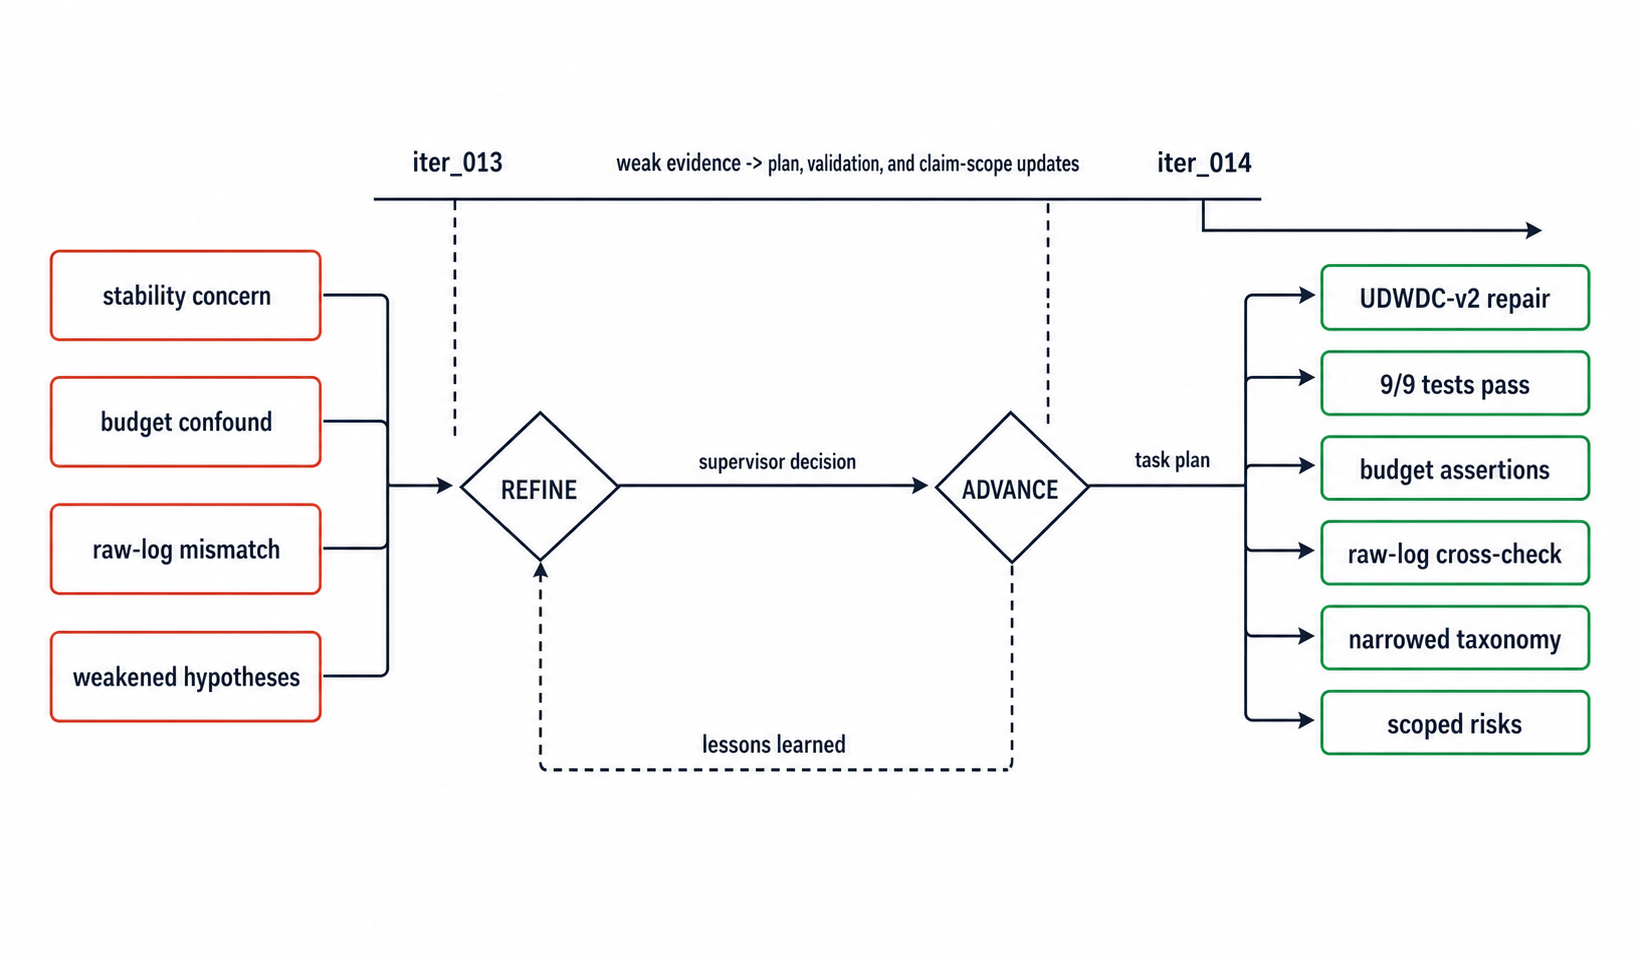
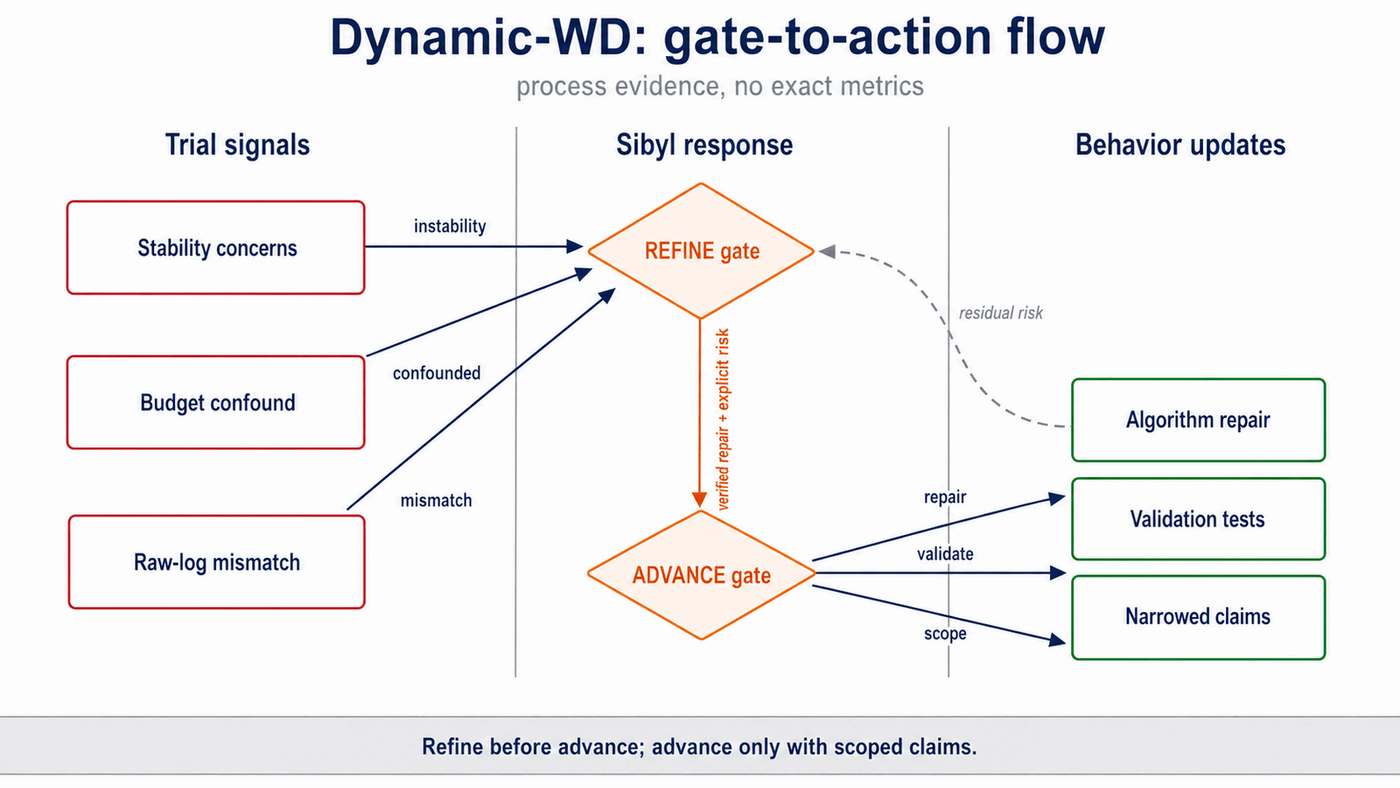
更新论文内容与案例流程图

diff --git a/sibyl_harness_position.tex b/sibyl_harness_position.tex
@@ -35,23 +35,24 @@
 \maketitle
 
 \begin{abstract}
- This position paper argues that autonomous research needs self-evolving Scientific Trial-and-Error Harnesses, not systems optimized primarily to generate papers. Existing systems give agents tools, roles, scaffolds, and research pipelines. These components help agents complete research tasks, but they do not by themselves create research judgment: the experience-backed ability to distrust weak signals, choose better controls, narrow claims, and stop unproductive lines of work. We propose Scientific Trial-and-Error Harnesses as the missing design target. A harness lets agents run bounded trials in real research environments, preserves positive and negative outcomes, routes lessons to the roles that must act on them, and changes both future research behavior and the harness itself. We make this target auditable through two conversion units. \emph{Trial-to-behavior conversion} links a trial signal to a later change in planning, validation, claim scope, scheduling, critique, or writing. \emph{Trial-to-harness-behavior conversion} links recurring process failures to new gates, prompt overlays, telemetry checks, scheduler policies, repair tasks, or protected constraints. The framework and \sibyl{}, a file-backed experimental autonomous research harness, co-developed: recurring failures in \sibyl{} workspaces sharpened the framework, and the framework in turn guided what the harness had to preserve and route. We use \sibyl{} not as a benchmarked system, but as an instrumented case study for making conversion paths observable. A retrospective audit of its workspaces identifies 8 high-confidence conversion events with a median latency of 1 iteration and a maximum visible latency of 3 iterations. A recovered-failure registry further shows how five naturally occurring failure classes, including duplicate results, confidence-interval inversion, stale numbers, feature-count mismatch, and unsupported statistics, were blocked, downgraded, or routed into later repair. These traces do not establish a comparative performance claim; they show that the proposed conversion units can be recovered from realistic autonomous-research workspaces.
+Autonomous research systems are often evaluated by their ability to produce papers, but paper generation alone does not imply research judgment. Real research requires learning from failed trials, distrusting weak signals, choosing better controls, narrowing claims, and abandoning unproductive directions. \textbf{This position paper argues that autonomous research should therefore be built around self-evolving \emph{Scientific Trial-and-Error Harnesses}: systems that let agents run bounded trials in realistic research environments, preserve both positive and negative outcomes, and route lessons back into future research behavior.}
+We formalize this goal through two auditable conversion units. \emph{Trial-to-behavior conversion} captures how evidence from a trial changes later planning, validation, claim scope, scheduling, critique, or writing. \emph{Trial-to-harness-behavior conversion} captures how recurring process failures lead to changes in the harness itself, such as new gates, prompt overlays, telemetry checks, scheduler policies, repair tasks, or protected constraints. Together, these units shift the design target from producing isolated research artifacts to accumulating reusable research judgment.
+We develop this framework alongside \sibyl{}, a file-backed autonomous research harness. Rather than presenting \sibyl{} as a benchmarked system, we use it as an instrumented case study for making conversion paths observable. Recurring failures in \sibyl{} workspaces sharpened the framework, while the framework guided what the harness needed to preserve, expose, and route. A retrospective audit identifies eight high-confidence conversion events, with a median latency of one iteration and a maximum latency of three iterations. A recovered-failure registry further shows how five naturally occurring failure classes, including duplicate results, confidence-interval inversion, stale numbers, feature-count mismatch, and unsupported statistics, were blocked, downgraded, or routed into later repair. These traces don't establish a comparative performance claim; they show the proposed conversion units are recoverable from realistic autonomous-research workspaces.
+ 
 \end{abstract}
 
 
 \section{Introduction}
 
-Autonomous research is becoming a concrete systems problem. LLM-driven agents can already read papers, write code, call tools, run experiments, revise drafts, and keep long contexts. The harder question is no longer only whether these agents can assist a human researcher. It is whether an agent can improve as a researcher across attempts: form better priors, notice fragile evidence earlier, stop bad stories before they become claims, and carry hard lessons into the next project.
+Autonomous research is becoming a concrete systems problem. LLM-driven agents~\citep{wu2023autogen,lu2024aiscientistfullyautomated,boiko2023autonomouschemicalresearch} can already read papers, write code, call tools, run experiments, revise drafts, and keep long contexts. The harder question is no longer only whether these agents can assist a human researcher. It is whether an agent can improve as a researcher across attempts: form better priors, notice fragile evidence earlier, stop bad stories before they become claims, and carry hard lessons into the next project.
 
-Human researchers improve this way. A researcher who has spent months with a benchmark often knows which metric is brittle, which baseline result is suspicious, which negative result is useful, and which pilot result is not ready for a paper. This ability is often called intuition or taste. We call it \emph{research judgment}: experience-backed behavior that changes what the researcher does next. The important point is not that judgment is mysterious. The important point is that judgment is produced by many concrete trials, mistakes, repairs, and reviews.
+This is also how human research practice develops. A researcher who has spent months with a benchmark often knows which metric is brittle, which baseline result is suspicious, which negative result is useful, and which pilot result is not ready for a paper. This ability is often called intuition or taste. We call it \emph{research judgment}: experience-backed behavior that changes what the researcher does next. The point is not that judgment is mysterious, but that it is produced by many concrete trials, mistakes, repairs, and reviews.
 
-Recent autonomous research systems automate many parts of the research loop. End-to-end AI scientist systems move from idea generation to draft papers \citep{lu2024aiscientistfullyautomated,yamada2025aiscientistv2workshoplevelautomated}. Research assistant and co-scientist systems help form hypotheses, synthesize literature, and rank candidates \citep{schmidgall2025agentlaboratoryusingllm,gottweis2025aicoscientist,ghareeb2025robinmultiagentautomatingscientific}. Metric-driven loops can search over code or methods when the score is visible \citep{karpathy2026autoresearch}. These systems show that agents can participate in scientific work. They also make a deeper design gap visible: completing research stages is not the same as accumulating research judgment.
+Recent autonomous research systems automate many parts of the research loop. For example, end-to-end AI scientist frameworks proceed from idea generation to draft papers~\citep{lu2024aiscientistfullyautomated,yamada2025aiscientistv2workshoplevelautomated}, while research assistant and co-scientist systems support hypothesis formation, literature synthesis, and candidate ranking~\citep{schmidgall2025agentlaboratoryusingllm,gottweis2025aicoscientist,ghareeb2025robinmultiagentautomatingscientific}. Metric-driven loops can further search over code or methods when an explicit score is available~\citep{karpathy2026autoresearch}. Together, these systems show that agents can participate in scientific work, but they also expose a deeper design gap: \textbf{completing research stages is not the same as accumulating research judgment.} The gap becomes visible in the failures that occur after useful signals have already been observed. A pilot may expose a broken metric, but the next plan still relies on it. A reviewer objection may identify an unsupported claim, but the writer only polishes the claim. A failed GPU run may reveal a wasteful experiment order, but the scheduler repeats it. A reflection file may record the right lesson, but the planner, critic, or supervisor never receives it. \textbf{These are not just bugs; they are missing update paths from trial history to later action.}
 
-The gap appears when a system observes a useful signal but fails to change future behavior. A pilot exposes a broken metric, yet the next plan keeps the metric. A reviewer objection identifies an unsupported claim, yet the writer keeps the claim polished. A failed GPU run reveals a wasteful experiment order, yet the scheduler repeats the order. A reflection file states the right lesson, yet the planner, critic, or supervisor never sees it. These are not just bugs. They are missing update paths from trial history to later action.
-
-This position emerged from building and auditing autonomous research workspaces, not from a finished benchmark. Early \sibyl{} runs repeatedly produced the same uncomfortable pattern: the system could preserve logs, reflections, and drafts while still failing to route lessons into the next plan, claim boundary, validation gate, or scheduling policy. Those failures shaped the framework below. We present the framework before \sibyl{} because the transferable contribution is not a particular implementation, but the update paths an autonomous research harness should expose.
-
-\textbf{Autonomous research needs self-evolving Scientific Trial-and-Error Harnesses, not systems optimized primarily to generate papers.} A harness is not a paper generator. It is the research environment around the agent: the state, tools, roles, memory, gates, artifact contracts, compute policy, and repair mechanisms that let agents try ideas under bounded controls and then use what happened. In a strong harness, past trials change future research behavior. Recurring process failures also change the harness itself. These two loops form agent-harness co-evolution. In our own system-building process, this co-evolution was also methodological: traces from early harness failures forced the conversion units to become smaller, more auditable, and more role-specific.
+This position grew out of building and auditing \sibyl{}, a file-backed experimental harness for autonomous research workspaces, rather than from optimizing a finished benchmark. Early \sibyl{} runs revealed a recurring pattern: the system could preserve logs, reflections, and drafts, yet still fail to route lessons into the next plan, claim boundary, validation gate, or scheduling policy. These failures shaped the framework below. We present the framework before the \sibyl{} case study because the transferable contribution is not the specific implementation, but the update paths an autonomous research harness should expose.
+This position paper argues that \textbf{autonomous research needs self-evolving Scientific Trial-and-Error Harnesses, not systems optimized primarily to generate papers.} 
+By harness, we mean the research environment around the agent: its state, tools, roles, memory, gates, artifact contracts, compute policies, and repair mechanisms. It lets agents try ideas under bounded controls, preserve outcomes, and convert trial history into later action. In a strong harness, past trials change future research behavior, while recurring process failures change the harness itself. These two feedback loops form agent-harness co-evolution. In our own system-building process, this co-evolution was also methodological: early harness failures forced the conversion units to become smaller, more auditable, and more role-specific.
 
 We operationalize this position with two auditable conversion units. \emph{Trial-to-behavior conversion} asks whether a trial signal at iteration $t$ changes an action at iteration $t+k$, such as a plan, validation, claim boundary, schedule, critique, or writing scope. \emph{Trial-to-harness-behavior conversion} asks whether repeated process failures change gates, prompt overlays, telemetry requirements, scheduler policies, repair tasks, or protected constraints. The unit is small on purpose: a signal, a trace path, and a later behavior change. Figure~\ref{fig:hook} shows the audit unit inside the adaptive harness loop.
 
@@ -61,65 +62,64 @@ We operationalize this position with two auditable conversion units. \emph{Trial
   \begin{subfigure}[t]{0.485\textwidth}
     \centering
     \includegraphics[width=0.97\linewidth,height=0.20\textheight,keepaspectratio]{figures/xqh/fig1.pdf}
-    \caption{Trial-to-behavior conversion and the closed adaptive harness loop.}
+    \caption{\small{Trial-to-behavior conversion and the closed adaptive harness loop.}}
     \label{fig:hook}
   \end{subfigure}
   \hfill
   \begin{subfigure}[t]{0.485\textwidth}
     \centering
     \includegraphics[width=0.97\linewidth,height=0.20\textheight,keepaspectratio]{figures/xqh/fig2.pdf}
-    \caption{Auditable conversion events and the evidence maturity boundary.}
+    \caption{\small{Auditable conversion events and the evidence maturity boundary.}}
     \label{fig:conversionevent}
   \end{subfigure}
-  \caption{Two views of Scientific Trial-and-Error Harnesses. (a) An auditable conversion event links a trial signal, a trace path, and a later behavior change inside a closed adaptive harness loop. (b) A conversion is counted only when a signal at iteration $t$, a trace path, and an update at iteration $t+k$ are linked; the maturity ladder separates execution completion, pilot signals, analysis-ready evidence, paper-ready evidence, and audited claims.}
-  \vspace{-2.2em}
+  \caption{\small{Two views of Scientific Trial-and-Error Harnesses. (a) An auditable conversion event links a trial signal, a trace path, and a later behavior change inside a closed adaptive harness loop. (b) A conversion is counted only when a signal at iteration $t$, a trace path, and an update at $t+k$ are linked; the maturity ladder separates execution completion, pilot signals, analysis-ready evidence, paper-ready evidence, and audited claims.}}
 \end{figure*}
 
-We make four contributions:
-\begin{enumerate}
+The contributions of this position paper are summarized as follows:
+\begin{enumerate}[leftmargin=*, itemsep=0pt, topsep=0pt]
   \item \textbf{A position for autonomous research.} We argue that autonomous research systems should be judged by whether trial history changes future research behavior, not only by whether a pipeline produces a complete paper.
-  \item \textbf{Two auditable conversion units.} We define trial-to-behavior conversion and trial-to-harness-behavior conversion as inspectable links from trial signals to later behavior updates and harness updates.
+  \item \textbf{Two auditable conversion units.} We define trial-to-behavior and trial-to-harness-behavior conversion as inspectable links from trial signals to later behavior and harness updates.
   \item \textbf{A harness design framework.} We distill seven harness functions and observable commitments for preserving evidence, routing memory, separating perspectives, managing compute, and repairing recurring failure paths.
   \item \textbf{An instrumented case study.} We describe \sibyl{}, an experimental harness that co-developed with the framework and preserves traces for stress-testing whether the proposed conversion units are observable in realistic autonomous-research workflows.
 \end{enumerate}
 
 \section{Related work}
 
-\paragraph{End-to-end autonomous research systems.}
+\textbf{End-to-end autonomous research systems.}
 AI scientist systems show that LLM agents can generate ideas, run experiments, interpret results, and draft manuscripts \citep{lu2024aiscientistfullyautomated,yamada2025aiscientistv2workshoplevelautomated}. Agent laboratory and co-scientist systems emphasize human collaboration, literature synthesis, hypothesis generation, and candidate ranking \citep{schmidgall2025agentlaboratoryusingllm,gottweis2025aicoscientist,ghareeb2025robinmultiagentautomatingscientific}. Domain-specific scientific agents further show that language-model systems can combine literature search, code execution, tool use, and laboratory or chemistry-specific automation \citep{bran2023chemcrow,boiko2023autonomouschemicalresearch}. More recent systems extend this trajectory toward longer-horizon and more domain-grounded discovery: cmbagent uses a planning-and-control multi-agent architecture for an autonomous cosmology analysis task, Kosmos coordinates data analysis and literature search through a structured world model, SAGA evolves scientific objective functions rather than treating objectives as fixed, and Aster accelerates iterative program-improvement loops across scientific and engineering tasks \citep{xu2025opensourceplanning,mitchener2025kosmos,du2025saga,bicker2026aster}. MLAgentBench makes the experimentation loop itself an evaluation target by asking agents to improve machine-learning systems through file edits, execution, and result inspection \citep{huang2023mlagentbench}. General-purpose multi-agent and software-agent systems also show how roles, messages, tools, human interaction, and agent-computer interfaces shape task execution \citep{wu2023autogen,hong2023metagpt,yang2024sweagent,jimenez2023swebench}. These systems make more of the scientific workflow executable. Recent surveys similarly frame the field as moving from equation discovery and self-driving laboratories toward autonomous discovery systems and agents \citep{kramer2026automatedscientificdiscovery}. Our focus is different. We ask whether trial history changes later research behavior and whether repeated process failures change the harness that hosts later trials.
 
-\paragraph{Metric-driven search and verifier-rich discovery.}
+\textbf{Metric-driven search and verifier-rich discovery.}
 Autoresearch loops, FARS-style systems, AlphaEvolve-style systems, Aster-style program improvement, CORAL-style multi-agent evolution, and PaperBench-like evaluations show the value of repeated trials when feedback is clear \citep{karpathy2026autoresearch,analemma2026fars,novikov2025alphaevolvecodingagentscientific,bicker2026aster,qu2026coral,starace2025paperbenchevaluatingaisability}. This line of work is closest to classical AutoML, neural architecture search, and black-box optimization: the system searches over candidates under an explicit objective \citep{hutter2019automated,zoph2017neuralarchitecturesearchreinforcement}. The difference is that open-ended research often lacks a single trusted objective. A harness must therefore route measurement failures and negative results into revised metrics, controls, and claim boundaries, not only into another search step.
 
-\paragraph{Agent memory and reflection.}
+\textbf{Agent memory and reflection.}
 Tool-using agents establish the basic pattern of interleaving language reasoning with external actions. ReAct combines reasoning traces with environment actions, and Toolformer studies how language models can learn to call external APIs \citep{yao2022react,schick2023toolformer}. Reflection systems show that verbal lessons from failed trials can improve later agent behavior \citep{shinn2023reflexionlanguageagentsverbal}. Memory systems show how agents can store and retrieve information across long interactions \citep{packer2024memgptllmsoperatingsystems}. Self-Refine, Voyager, and Generative Agents also show how critique, skill libraries, and memory can shape future actions \citep{madaan2023selfrefineiterativerefinementselffeedback,wang2023voyageropenendedembodiedagent,park2023generativeagentsinteractivesimulacra}. Trial-to-behavior conversion is more specific than tool use or memory reuse. A lesson counts only when it reaches the role that must act on it and appears in a later plan, validation, claim boundary, schedule, critique, or writing restriction.
 
-\paragraph{Harnesses, tools, provenance, and reproducibility.}
+\textbf{Harnesses, tools, provenance, and reproducibility.}
 Broad agent benchmarks evaluate whether language models can act in interactive environments, and software or research benchmarks expose the importance of execution, long-context state, and artifact inspection \citep{liu2023agentbench,jimenez2023swebench,huang2023mlagentbench,starace2025paperbenchevaluatingaisability}. Long-running agents require harnesses, tools, tracing, and guardrails to make progress inspectable and safe \citep{anthropic2025harnesses,anthropic2025tools,openai2026tracing,openai2026guardrails}. Scientific provenance and reproducibility work gives complementary tools for connecting claims to artifacts \citep{733f89c65e4844f9aabcae1c276a5602,Gundersen_2018}. Work on weak evidence and publication incentives warns that polished claims can outrun the evidence base \citep{Ioannidis_2005}. We connect these threads by treating a harness as a memory-bearing research environment with explicit evidence boundaries and by requiring claim-relevant behavior changes to be visible in traces.
 
-\paragraph{Expertise and research judgment.}
+\textbf{Expertise and research judgment.}
 The idea that expertise grows from repeated, feedback-rich experience is old \citep{Ericsson_1996}. Research judgment in this paper is the system-level analogue of that process. We do not claim that agents acquire human expertise in the psychological sense. We make a narrower systems claim: if an autonomous research system has learned from a trial, later behavior should expose that learning.
 
 \section{Failure modes: where autonomous research loses experience}
 
 Autonomous research systems already make many research actions executable. The core failure is subtler. A system can propose hypotheses, run code, optimize a metric, preserve logs, and write a draft while still losing the experience that those actions should have produced. We call the missing route an \emph{update path}: the path by which a trial signal becomes a later constraint on planning, validation, claim scope, resource allocation, critique, writing, or harness behavior.
 
-\paragraph{F1: Paper completion hides evidence immaturity.}
+\textbf{F1: Paper completion hides evidence immaturity.}
 A pipeline can finish a paper even when the evidence is weak or corrupted. The needed update path is from weak evidence to a claim boundary: the writer should downgrade or remove the claim, and the planner should receive a validation task.
 
-\paragraph{F2: Pilot signals collapse into paper claims.}
+\textbf{F2: Pilot signals collapse into paper claims.}
 A cheap pilot can be useful because it points to a direction. It does not by itself support a broad scientific claim. The needed update path is from pilot signal to maturity state: the system should mark the result as exploratory and require a stronger full-scale gate before writing general conclusions.
 
-\paragraph{F3: Visible objectives become bad objectives.}
+\textbf{F3: Visible objectives become bad objectives.}
 Metric-driven loops work well when the objective is trusted. Research metrics often are not. A broken metric should trigger measurement critique, control design, and baseline audit. If the system simply optimizes the same metric again, the trial did not become research judgment.
 
-\paragraph{F4: Memory stays textual instead of routed.}
+\textbf{F4: Memory stays textual instead of routed.}
 Long context can preserve a lesson in text while failing to route it to the role that needs it. The needed update path is from lesson to role-specific behavior: planner checks, critic objections, supervisor gates, scheduler policy, or writer restrictions.
 
-\paragraph{F5: More trials do not improve trial policy.}
+\textbf{F5: More trials do not improve trial policy.}
 Many-trial systems can increase experiment volume without improving the order, cost, stopping rules, or sanity checks. A failed or wasteful run should change resource allocation, early-stop policy, or cheap-check ordering.
 
-\paragraph{F6: Process failures recur because the harness does not change.}
+\textbf{F6: Process failures recur because the harness does not change.}
 Missing artifacts, stale tables, incomplete telemetry, and paper/evidence synchronization errors are not only project-local mistakes. Repeated process failures should change the harness: new gates, prompt overlays, artifact contracts, telemetry requirements, repair tasks, or protected constraints.
 
 These failure modes are distilled from recurring patterns in \sibyl{} workspace traces and from comparison with prior autonomous-research designs. They are not presented as exhaustive. Their role is to identify where paper-completion systems lose experience and where a harness must expose an update path. For example, in one sparse-autoencoder replication run, a strong writing score coexisted with duplicate result files, a feature-count mismatch, a missing sparsity-matched control, and many inactive sparse features. In an image-augmentation pilot, a CIFAR-10 direction looked promising, but full-scale claims were blocked because the larger follow-up experiments were still missing. In diffusion-language-model acceleration and dynamic weight-decay projects, unsupported statistics, metric failures, and control problems became later claim downgrades, validation tasks, and harness repairs rather than polished prose.
@@ -159,25 +159,25 @@ A Scientific Trial-and-Error Harness is the environment that makes those updates
 
 Although the framework is presented abstractly, it was refined through system-building pressure. Whenever a \sibyl{} run preserved a useful signal without changing later behavior, we treated the failure as evidence that the framework needed a more explicit update path. The seven functions below are therefore design commitments, not claims that any current harness fully solves autonomous research.
 
-\paragraph{H1: Trial orchestration.}
+\textbf{H1: Trial orchestration.}
 Each trial should have a question, expected evidence, dependencies, outputs, and stop conditions. The observable commitment is that earlier evidence changes the next trial plan, branch priority, or task dependency.
 
-\paragraph{H2: Evidence maturity.}
+\textbf{H2: Evidence maturity.}
 Execution completion, pilot signal, analysis-ready evidence, paper-ready evidence, and audited claim are different states. The observable commitment is that a claim advances only after validation, scope control, and artifact links. Negative evidence can increase maturity by ruling out a false story.
 
-\paragraph{H3: Traceability.}
+\textbf{H3: Traceability.}
 A behavior update should be tied to artifacts: plans, configs, logs, tables, reviews, negative evidence, and writing changes. The observable commitment is that a reader can reconstruct why a later action changed.
 
-\paragraph{H4: Routed research memory.}
+\textbf{H4: Routed research memory.}
 Reflection should not remain as a free-form note. Lessons must be routed to planners, experimenters, critics, supervisors, schedulers, or writers. The observable commitment is that a past lesson changes a later role-specific check or decision.
 
-\paragraph{H5: Perspective separation.}
+\textbf{H5: Perspective separation.}
 Optimistic, skeptical, methodological, supervisory, and writing roles should have different authority. The observable commitment is that objections become validation tasks, plan mutations, stopped branches, or claim downgrades rather than free-form disagreement.
 
-\paragraph{H6: Resource-aware trial policy.}
+\textbf{H6: Resource-aware trial policy.}
 Research trial-and-error is bounded by GPU time, token budget, and human review attention. The observable commitment is that failed or wasteful trials change sanity-check policy, allocation, monitoring, or recovery behavior.
 
-\paragraph{H7: Harness self-evolution with protected constraints.}
+\textbf{H7: Harness self-evolution with protected constraints.}
 Some trial signals are about the research question. Others are about the harness that produced the research. Repeated missing artifacts, stale outputs, telemetry gaps, or gate failures should change prompt overlays, validation gates, artifact contracts, scheduler policies, or repair tasks. The observable commitment is that self-evolution strengthens evidence integrity rather than optimizing polish, pass rate, or reviewer gaming.
 
 \textbf{Trial-to-behavior conversion} is the agent-side audit unit. A signal at iteration $t$ must alter an action at iteration $t+k$: which direction to try, which evidence to distrust, which validation to run earlier, how strongly to state a claim, when to stop a branch, how to allocate GPU budget, or when to delay writing. A conversion links three artifacts: a trial signal, a trace path, and a later behavior change. Figure~\ref{fig:conversionevent} shows this unit.
@@ -207,7 +207,6 @@ Table~\ref{tab:evaluation} maps the six failure modes to the seven positive comm
     H7 Harness self-evolution & F6 Static harness & Recurring process failures change gates, overlays, telemetry, scheduler policy, repair tasks, or protected constraints. & The same infrastructure failure recurring across projects. \\
     \bottomrule
   \end{tabularx}}
-  \vspace{-1.7em}
 \end{table}
 
 \section{Operationalizing the framework in \sibyl{}}
@@ -241,7 +240,6 @@ Table~\ref{tab:sibylmapping} maps each framework commitment to the current \siby
     H7 Harness self-evolution & Evolution records, self-heal tasks, and protected constraints & Process failures become gates, telemetry requirements, overlays, or repair tasks. \\
     \bottomrule
   \end{tabularx}
-  \vspace{-1.5em}
 \end{table}
 
 This implementation detail matters because writing and research roles do not have the same authority. A writer can synthesize validated claims but cannot upgrade a pilot result. A supervisor can allow advancement only with scoped risks. A critic's objection must become a task or boundary condition. A scheduler can run expensive experiments, but low evidence value should trigger cheap checks first. These boundaries are scientific integrity mechanisms, not only engineering choices.
@@ -281,7 +279,7 @@ The evidence is organized in three layers. First, hand-audited conversion events
 \end{table}
 
 
-\paragraph{Patterns across the audited cases.}
+\textbf{Patterns across the audited cases.}
 The detailed traces behind these conversion events are preserved in Appendix~\ref{sec:extended-cases}. Across cases, the same pattern repeats and explains why the framework emphasizes conversion rather than memory volume or paper quality: a weak, stale, or corrupted signal matters only when it becomes a later change in algorithm design, validation, claim boundary, writing permission, or harness policy. Figure~\ref{fig:dynamicwdflow} shows one concrete path. In the dynamic weight-decay case, paper errors, budget concerns, corrupted controls, and hidden negative results for an auxiliary baseline trigger a refinement decision; the next iteration adds controller repair, budget assertions, 9-of-9 stability tests, raw-log checks, and a scoped advancement decision.
 
 \begin{figure}[t]
@@ -290,14 +288,14 @@ The detailed traces behind these conversion events are preserved in Appendix~\re
   \includegraphics[width=0.95\linewidth,height=0.24\textheight,keepaspectratio]{figures/xqh/fig4.pdf}
   \caption{Dynamic weight-decay gate-to-action flow. Controller instability, budget confounds, raw-log mismatches, hidden negative auxiliary-baseline results, corrupted controls, and a weakened or unsupported hypothesis at iteration 13 trigger a refinement decision. Iteration 14 then performs controller stability repair, 9-of-9 unit tests, budget assertions, raw-log cross-checks, auxiliary-baseline/control audit, and a narrowed three-tier claim before issuing a scoped advancement decision.}
   \label{fig:dynamicwdflow}
-  \vspace{-1.7em}
+  % \vspace{-1em}
 \end{figure}
 
-\paragraph{Recovered-failure registry.}
+\textbf{Recovered-failure registry.}
 The strongest controlled experiment would inject known failures into a held-out workspace. We do not report such a new run here. Instead, we report a recovered-failure registry from naturally occurring traces. This is weaker than an injected benchmark but stronger than anecdote because each row contains a concrete failure class, an audit artifact type, a catch mechanism, and a later update. Table~\ref{tab:appendix-recoveredfailures} gives the failure rows without exposing internal file paths.
 
 
-\paragraph{Aggregate review-to-action audit.}
+\textbf{Aggregate review-to-action audit.}
 We also audited a generated-review archive containing reviewer-like artifacts over 51 project-iteration snapshots from 11 workspaces, with three review surfaces per snapshot. We include this audit as a stress test for the framework's premise, not as a validation of generated review scores. These are pressure tests, not peer-review outcomes. The most important lesson is negative: review scores are poor progress metrics. The three surfaces disagree in schema and calibration, and within each surface scores barely move across iterations even when objections persist. The objections themselves are more useful. They cluster around validation strength, claim scope, baselines, controls, reproducibility, and artifact synchronization, which are the same evidence-boundary risks the workspace traces already flag. Detailed counts and per-surface calibration are in Appendix~\ref{sec:appendix-review-transition-stats}.
 
 To check whether such objections become later research items, we align internal \sibyl{} reviews, reflections, and next-iteration plans (the post-hoc external reviews are not used as inputs here). In this hand-parsed diagnostic sample, across 12 audited traces and 37 parseable structured action-plan rows, score-drop rows carry roughly twice as many high-severity issues as score-up rows (8.7 vs.\ 4.0 per row) and a heavier corrective load. When a score-drop row has a visible next plan, the next iteration is dominated by experiments and controls (about two thirds of tasks), with the rest split between validation/artifact repair and harness changes. Figure~\ref{fig:scorebehaviordiag} summarizes this review-to-action path; raw transition counts and supervisor-score calibration are in Appendix~\ref{sec:appendix-review-transition-stats}.
@@ -305,19 +303,19 @@ To check whether such objections become later research items, we align internal 
 
 \begin{figure}[t]
   \centering
-  \vspace{-2em}
-  \includegraphics[width=0.85\linewidth]{figures/xqh/fig3-new.pdf}
-  \caption{Internal review scores as issue-to-action signals. (A) Two concrete score-drop rows show that a lower score is useful when it routes work: a sparse-autoencoder absorption drop becomes a validation-first plan and source-to-paper validation script; a dynamic weight-decay drop becomes added controls, 9/9 unit tests, and a narrowed claim. (B) Mean issue and focus load per parsed row; next-plan tasks are averaged only over rows with a visible next-iteration task plan, and the x-axis reports both parsed rows and visible-plan rows. (C--D) Heuristic multi-label classifications of structured action-plan recommendations and next-iteration task-plan entries. The post-hoc generated reviews are not causal inputs to these loops; they are pressure tests for whether similar objections would be actionable.}
+  \includegraphics[width=0.98\linewidth]{figures/xqh/fig3-new.pdf}
+  \vspace{-4pt}
+  \caption{\small{Internal review scores as issue-to-action signals. (A) Two concrete score-drop rows show that a lower score is useful when it routes work: a sparse-autoencoder absorption drop becomes a validation-first plan and source-to-paper validation script; a dynamic weight-decay drop becomes added controls, 9/9 unit tests, and a narrowed claim. (B) Mean issue and focus load per parsed row; next-plan tasks are averaged only over rows with a visible next-iteration task plan, and the x-axis reports both parsed rows and visible-plan rows. (C--D) Heuristic multi-label classifications of structured action-plan recommendations and next-iteration task-plan entries. The post-hoc generated reviews are not causal inputs to these loops; they are pressure tests for whether similar objections would be actionable.}}
   \label{fig:scorebehaviordiag}
-  \vspace{-1.7em}
 \end{figure}
 
-\paragraph{Harness-side evidence.}
+\textbf{Harness-side evidence.}
 The \sibyl{} evolution-memory records show trial-to-harness-behavior conversion. The central digest contains 416 recurring issue patterns: 212 experiment, 89 writing, 84 analysis, 20 system, 4 ideation, 3 pipeline, 3 planning, and 1 efficiency. Routing is explicit: experiment issues are assigned to experiment-running and planning roles, analysis issues to supervisory and critique roles, and writing issues to drafting and editing roles. The prompt loader then injects selected lessons as role-specific overlays. The diffusion-language-model caching case also exposes a resource-policy update: the reflection records that a 54-minute pilot revealed a 15.2\(\times\) overhead failure that a 10-minute throughput sanity check could have caught earlier.
 
 \section{Conclusion}
-
-Autonomous research should not be judged mainly by whether a system can generate a complete paper. A paper is an expression of an evidence state. The harder capability is whether a system can turn trial history into research judgment: better plans, stronger validation, narrower claims, safer resource policy, and a harness that becomes harder to fool over time. Our experience building \sibyl{} suggests that the theory and the harness cannot be cleanly separated: better traces reveal missing update paths, and better update-path theory tells later harness versions what to preserve, route, and block. Scientific Trial-and-Error Harnesses make this capability auditable by linking trial signals to later behavior updates and harness updates.
+Autonomous research should not be judged mainly by whether a system can generate a complete paper. A paper is only an expression of an evidence state; it does not by itself show whether the system has learned from the trials that produced it. The harder capability is whether a system can turn trial history into research judgment: better plans, stronger validation, narrower claims, safer resource policies, and a harness that becomes harder to fool over time.
+This position paper argues that such judgment requires self-evolving Scientific Trial-and-Error Harnesses.
+Our experience building \sibyl{} suggests that the theory and the harness cannot be cleanly separated. Better traces reveal missing update paths, and better update-path theory tells later harness versions what to preserve, route, block, and audit. Scientific Trial-and-Error Harnesses make this agenda auditable: they ask not only what an agent produced, but what it learned, where that lesson traveled, and how it changed the next research action.
 
 
 \clearpage
@@ -356,6 +354,7 @@ Figure~\ref{fig:appendix-evidence-maturity} expands H2 from Section~\ref{sec:har
 
 \begin{figure}[t]
   \centering
+    \vspace{6pt}
   \includegraphics[width=\linewidth,height=0.30\textheight,keepaspectratio]{figures/xqh/fig3.pdf}
   \caption{Evidence maturity states and the claim-evidence boundary. Execution completion, pilot signal, analysis-ready evidence, paper-ready evidence, and audited claims are separate states. The claim-evidence check allows, downgrades, or blocks claims based on artifacts, validation checks, negative evidence, and reviewer objections.}
   \label{fig:appendix-evidence-maturity}
@@ -365,6 +364,7 @@ Figure~\ref{fig:appendixsubstrates} complements the maturity diagram by showing 
 
 \begin{figure}[t]
   \centering
+    \vspace{6pt}
   \includegraphics[width=\linewidth,height=0.30\textheight,keepaspectratio]{figures/xqh/fig6.pdf}
   \caption{Memory routing and claim-evidence substrates. (a) Trial signals are normalized into issue categories and lesson records, routed to specific roles via overlay updates, and observed as later plan overlays, objection checks, claim downgrades, or validation contracts. (b) The claim-evidence graph links each prose claim to artifacts (tables, figures, reviewer notes, aggregated JSON), analysis scripts and configs, validation tests, raw logs, seeds, checkpoints, and negative evidence.}
   \label{fig:appendixsubstrates}
@@ -382,6 +382,7 @@ The harness-side evidence is stored in global and per-project evolution-memory r
 
 \begin{table}[ht]
   \centering
+    \vspace{6pt}
   % \small
   \scriptsize
   
@@ -478,6 +479,7 @@ The diagnostic workspaces are stress tests for update paths rather than clean co
 
 \begin{table}[ht]
   \centering
+    \vspace{6pt}
   \small
   \setlength{\tabcolsep}{3pt}
   \caption{Appendix diagnostic-workspace status.}
@@ -493,6 +495,7 @@ The diagnostic workspaces are stress tests for update paths rather than clean co
     Memory-negative or weakened settings & Boundary and memory diagnostics. & Hard quality-gate rollback and repeated proxy/control failures expose what must be routed into gates and planner prerequisites. \\
     \bottomrule
   \end{tabularx}
+    \vspace{1pt}
 \end{table}
 
 \subsection{Recovered-failure registry}
@@ -502,6 +505,7 @@ Table~\ref{tab:appendix-recoveredfailures} lists the natural failure classes use
 
 \begin{table}[ht]
   \centering
+    \vspace{6pt}
   \small
   \setlength{\tabcolsep}{2pt}
   \caption{Recovered failures from natural workspace traces. These are existing failures that the harness blocked, downgraded, or routed into repair, not newly injected tests.}
@@ -528,6 +532,7 @@ The generated-review archive contains reviewer-like artifacts for workspace pape
 
 \begin{table}[ht]
   \centering
+    \vspace{6pt}
   % \footnotesize
   \small
   \setlength{\tabcolsep}{3pt}
@@ -555,6 +560,7 @@ For Figure~\ref{fig:scorebehaviordiag}, we separately parse internal reflection-
 
 \begin{table}[ht]
   \centering
+    \vspace{6pt}
   % \footnotesize
   \small
   
@@ -572,13 +578,15 @@ For Figure~\ref{fig:scorebehaviordiag}, we separately parse internal reflection-
     No prior score & 11 & -- & 3.8 & 5.9 & 79 tasks in 8 visible next plans: 57 experiment/control, 10 validation/artifact, 10 harness/system, 1 claim/writing, 1 other. \\
     \bottomrule
   \end{tabularx}}
+    \vspace{6pt}
 \end{table}
 
 The artifact coverage itself is an audit signal. The review set contains 51 reviewed project-iteration pairs, while the local collected-paper tree used for this paper contains 46 project-iteration artifact folders. Nine reviewed iterations are absent from that local collection and four local collected iterations are not reviewed. In the image-augmentation case, the latest collected Markdown draft makes full-scale 200-epoch claims, while the reviewed source still describes pilot 10-epoch, 100-sample, single-seed results. This is not evidence about reviewer accuracy; it is evidence that a research harness needs artifact synchronization checks before interpreting any review score. Table~\ref{tab:stagetransitions} reports the raw stage-transition counts used to interpret the process shape.
 
 \begin{figure}[ht]
   \centering
-  \includegraphics[width=0.95\linewidth]{fig_review_process_diagnostics.pdf}
+  \vspace{4pt}
+  \includegraphics[width=\linewidth]{fig_review_process_diagnostics.pdf}
   \caption{Review-artifact calibration and stage-transition counts (appendix view of the data discussed in Section~\ref{sec:process-evidence}). (A) Two native 1--5 generated-review scores, long-form-reviewer text-inferred ordinal labels, and internal \sibyl{} supervisor scores divided by two and rounded. Gray no/unclear regions mark missing numeric overall scores or unclassified text assessments. (B) Internal \sibyl{} scores sit closer to the conservative reviewer than to the rubric reviewer; the long-form reviewer is text-inferred only. (C) Adjacent score transitions differ by review surface; no single review score should be optimized directly. (D) The full stage-transition matrix shows writing self-loops, and review or validation stages routing work back to harness and experiment stages.}
   \label{fig:reviewprocessdiag}
 \end{figure}
@@ -618,18 +626,19 @@ Figure~\ref{fig:systemcomparison} and Table~\ref{tab:appendix-systemcomparison} 
 
 \begin{figure}[ht]
   \centering
-  \includegraphics[width=0.95\linewidth,height=0.18\textheight,keepaspectratio]{fig_system_comparison_heatmap.pdf}
+  \vspace{6pt}
+  \includegraphics[width=\linewidth,height=0.18\textheight,keepaspectratio]{fig_system_comparison_heatmap.pdf}
   \caption{Documented support for the H1--H7 commitments under two non-comparable evidence levels. \textit{Trace-evidenced} cells (\sibyl{} only) come from the audited workspace artifacts in this paper. \textit{Paper-described} cells come from cited system descriptions and indicate that the published text exposes the ingredient, not that the trace-level update path was audited. \textit{Not described} indicates the cited description does not expose the ingredient.}
   \label{fig:systemcomparison}
+  \vspace{1pt}
+  
 \end{figure}
 \begin{table}[ht]
   \centering
-  % \small
-  \footnotesize
-  \setlength{\tabcolsep}{3pt}
+  \vspace{2pt}
+  \small
   \caption{Table form of Figure~\ref{fig:systemcomparison}. \textit{TE} = trace-evidenced (audited workspace artifacts; available only for \sibyl{}). \textit{PD} = paper-described (the cited system description exposes the ingredient). \textit{ND} = not described. The two levels are not directly comparable; \sibyl{}'s entries reflect what the audit could recover from preserved traces, not a comparative performance claim.}
   \label{tab:appendix-systemcomparison}
-  \resizebox{0.95\linewidth}{!}{%
   \begin{tabular}{lccccccc}
     \toprule
     System & H1 & H2 & H3 & H4 & H5 & H6 & H7 \\
@@ -641,7 +650,9 @@ Figure~\ref{fig:systemcomparison} and Table~\ref{tab:appendix-systemcomparison} 
     Long-running agent harnesses & PD & PD & PD & PD & ND & PD & PD \\
     \sibyl{} traces (this paper) & TE & TE & TE & TE & TE & TE & TE \\
     \bottomrule
-  \end{tabular}}
+  \end{tabular}
+  \vspace{2pt}
+  
 \end{table}
 
 \section{Evaluation protocols}
@@ -684,6 +695,7 @@ The corresponding mitigations are claim-evidence gates, AI-use disclosure, human
 
 \begin{table}[ht]
   \centering
+  \vspace{1pt}
   \small
   \setlength{\tabcolsep}{3pt}
   \renewcommand{\arraystretch}{1.1}